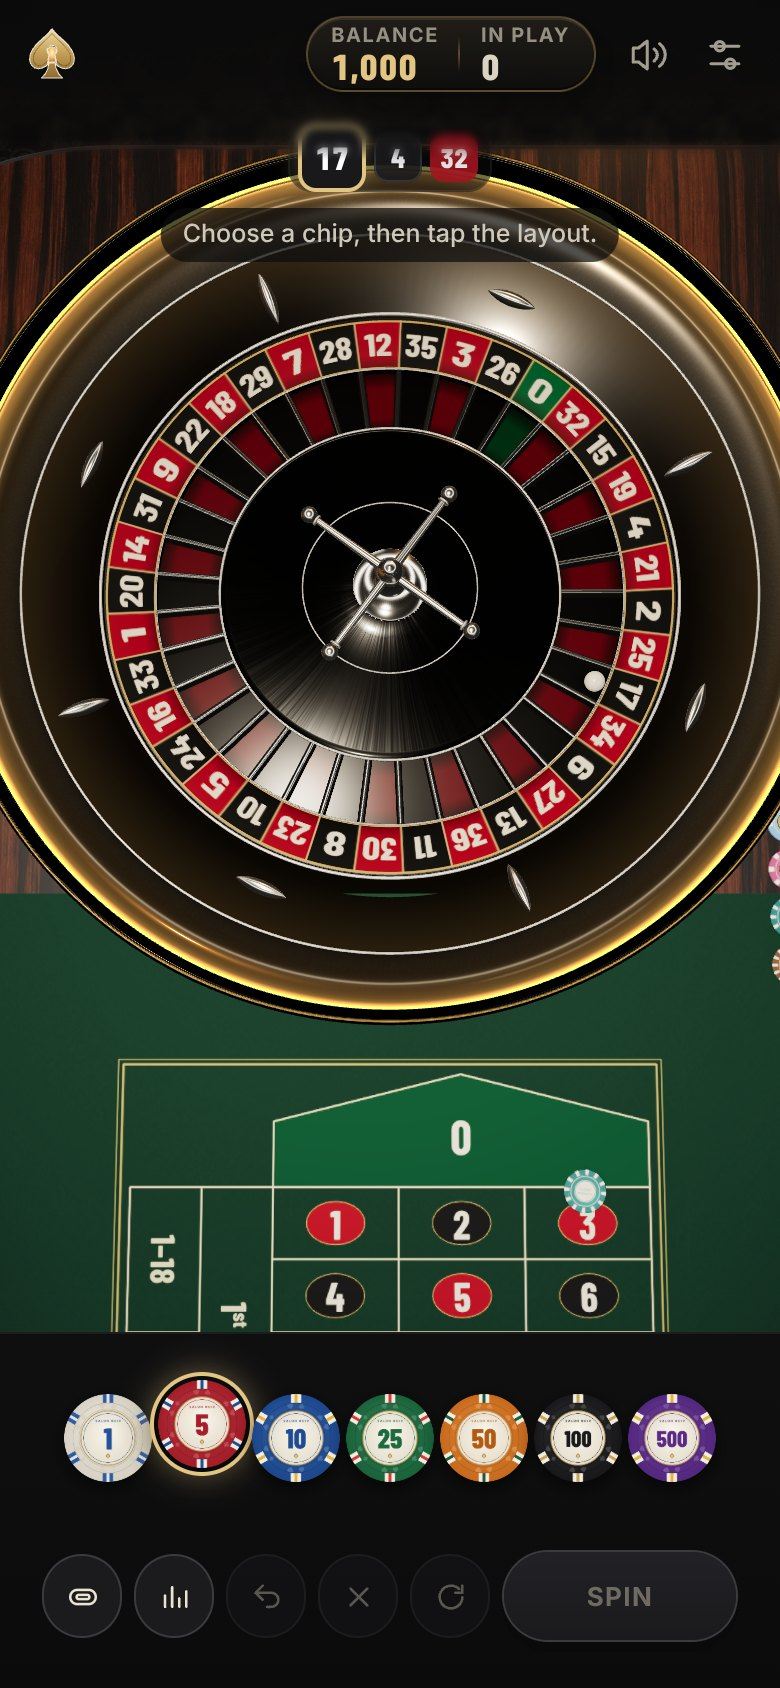
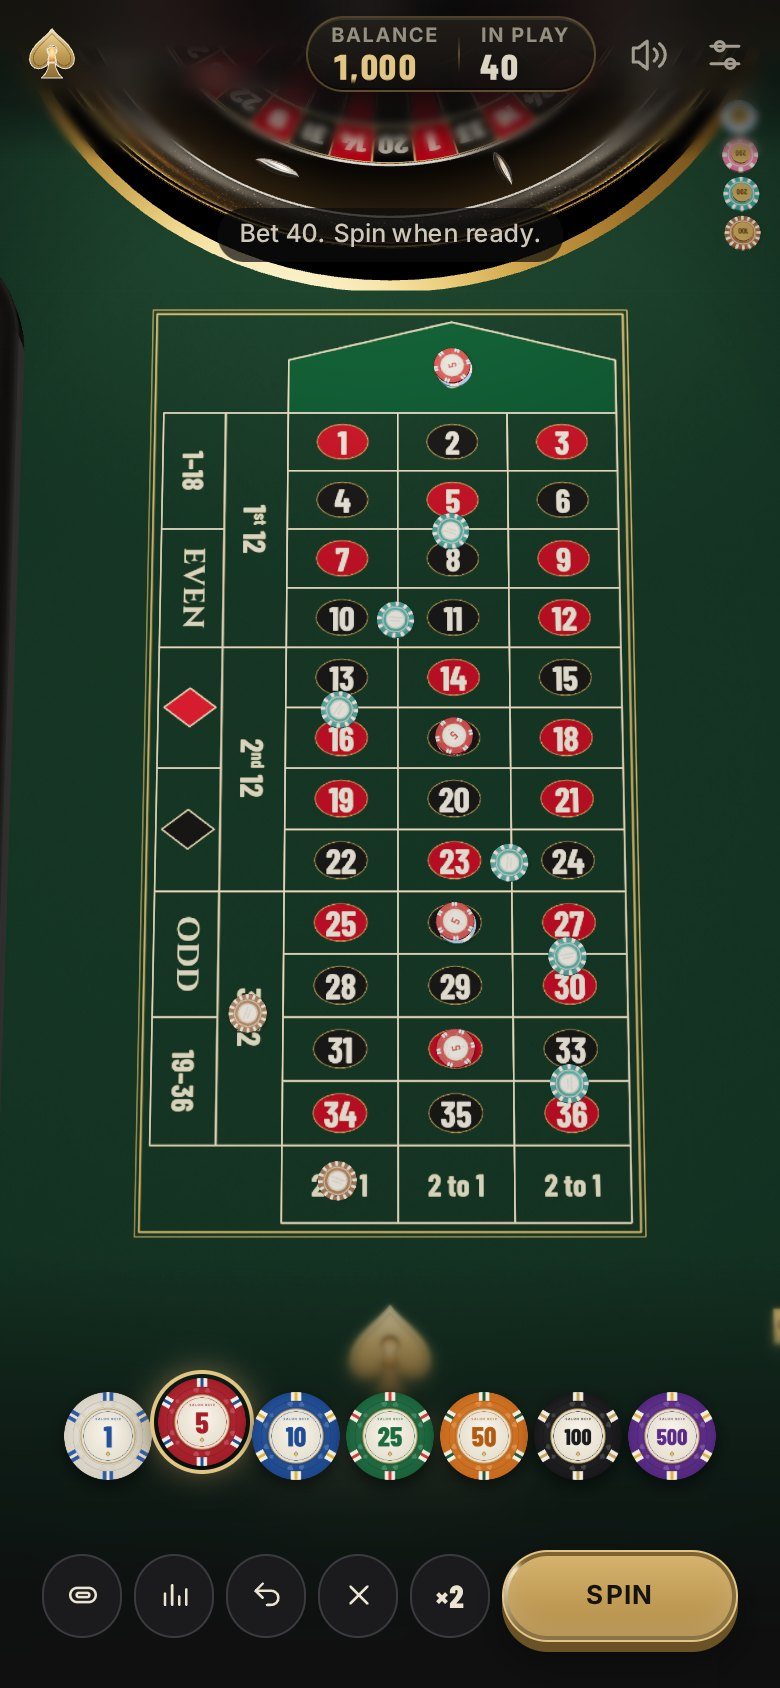
Roulette: cloth round the wheel, the armrest ends rounded, a blurred dock
- One cloth over the whole top inside a rim of wood, cut round the wheel
  and the chip tray, the printed layout lying on it. A brass sheet under
  it shows as a fine rule at its edge and a ring round the wheel. The top
  is 10 cm longer at the head and 8 cm deeper on the far side, so the
  cloth goes all the way round the well.
- The armrest ends at the far corner with a rounded end, like its near
  end, in place of the cut-off stub up the croupier's side that showed
  as a black block.
- Where the dock runs along the foot of the screen, the table goes on
  under it behind a progressive blur (five layers, each twice the blur
  of the last, faded in a step further down, with a shade for the
  controls' contrast) instead of a solid bar. The scene frames the table
  clear of the blur (frame takes a bottom inset, as it takes the bar's at
  the top), so no spot is softened. The battery saver and a phone's
  side column keep a plain dock.
- README pictures of the roulette table retaken.

Claude-Session: https://claude.ai/code/session_01LZAjciFf9xTUB7bzDLkKS6

diff --git a/src/app.css b/src/app.css
@@ -750,10 +750,12 @@ body:not([data-room="roulette"]) .rstage, body:not([data-room="roulette"]) .rdoc
 body[data-room="roulette"] .shoe-meter { display: none; }
 body.in-lobby .rdock, body.in-lobby .r-overlay, body.in-lobby .r-hint, body.flying .rdock, body.flying .r-overlay, body.flying .r-hint { opacity: 0; pointer-events: none; }
 .rdock, .r-overlay, .r-hint { transition: opacity .5s var(--ease); }
-.rcanvas { position: absolute; inset: 0; width: 100%; height: 100%; display: block; touch-action: none; }
+/* the picture runs on under a dock along its foot (--under: the dock's height, set as the room frames itself) */
+.rstage { overflow: visible; }
+.rcanvas { position: absolute; left: 0; top: 0; width: 100%; height: calc(100% + var(--under, 0px)); display: block; touch-action: none; }
 .r-overlay { position: absolute; inset: 0; pointer-events: none; }
 /* the room falls away into the dark round the table, as under its pendants */
-.r-vignette { position: absolute; inset: 0; pointer-events: none; background: radial-gradient(120% 95% at 50% 58%, transparent 52%, rgba(5, 4, 3, .38) 82%, rgba(5, 4, 3, .62) 100%); }
+.r-vignette { position: absolute; inset: 0 0 calc(-1 * var(--under, 0px)); pointer-events: none; background: radial-gradient(120% 95% at 50% 58%, transparent 52%, rgba(5, 4, 3, .38) 82%, rgba(5, 4, 3, .62) 100%); }
 .r-fade { position: absolute; inset: 0; background: #050505; opacity: 0; pointer-events: none; transition: opacity .2s ease; z-index: 2; }
 .r-fade.on { opacity: 1; }
 .r-hint, body[data-table] .r-hint { top: auto; bottom: 12px; }   /* beat the blackjack tables' hint placement, which may still be on the body */
@@ -877,6 +879,24 @@ body[data-rmode="spin"] .r-hint { top: auto; bottom: 6px; padding: 4px 11px; fon
 
 /* the dock */
 .rdock { display: flex; align-items: center; justify-content: center; gap: 14px 18px; flex-wrap: wrap; }
+/* A progressive blur in place of the solid bar: the table goes on under the controls, softening by degrees toward the
+   foot (each layer twice the blur of the one before, faded in a step further down), with a shade over it so the
+   controls keep their contrast. Not in the side column of a phone on its side, nor on the battery saver. */
+.r-blur { display: none; }
+@media not ((orientation: landscape) and (max-height: 520px)) {
+  .rdock { background: none; border-top: 0; }
+  .r-blur { display: block; position: absolute; left: 0; right: 0; top: -40px; bottom: 0; z-index: -1; pointer-events: none;
+    background: linear-gradient(rgba(11, 11, 12, 0), rgba(11, 11, 12, .42) 34%, rgba(11, 11, 12, .72) 70%, rgba(11, 11, 12, .86)); }
+  .r-blur i { position: absolute; inset: 0; --m: linear-gradient(transparent var(--a), #000 var(--c));
+    -webkit-backdrop-filter: blur(var(--b)); backdrop-filter: blur(var(--b)); -webkit-mask-image: var(--m); mask-image: var(--m); }
+  .r-blur i:nth-child(1) { --b: 1px; --a: 0%; --c: 18%; }
+  .r-blur i:nth-child(2) { --b: 2.5px; --a: 9%; --c: 30%; }
+  .r-blur i:nth-child(3) { --b: 5px; --a: 20%; --c: 44%; }
+  .r-blur i:nth-child(4) { --b: 10px; --a: 32%; --c: 60%; }
+  .r-blur i:nth-child(5) { --b: 18px; --a: 46%; --c: 78%; }
+  .rdock[data-q="saver"] .r-blur i { display: none; }
+  .rdock[data-q="saver"] .r-blur { background: linear-gradient(rgba(11, 11, 12, 0), rgba(11, 11, 12, .8) 40%, #0b0b0c 75%); }
+}
 .rdock .bet-actions { grid-template-areas: 'u c s d'; }
 #rUndo { grid-area: u; } #rClear { grid-area: c; } #rRebet, #rX2 { grid-area: s; justify-self: stretch; justify-content: center; } #rSpin { grid-area: d; }
 .r-tools { display: flex; gap: 8px; }

diff --git a/PROJECT.md b/PROJECT.md
@@ -21,7 +21,7 @@ House rules worth knowing (all in the rules cards in Settings, and checked by th
 - **Classic** (the base of all three): 8 decks, dealer stands on soft 17, hole card with a peek, blackjack pays 3:2, one split (aces take one card), double after split, insurance 2:1 and **even money** offered on your blackjack against an ace, ten-card Charlie. Lucky Lucky pays **30:1 on an unsuited 6-7-8**.
 - **Free Bet:** free doubles on hard 9-11 and free splits on every pair but tens, **resplitting up to four hands**; tens split for your own stake; a dealer 22 pushes, and Push 22 takes the Dealer Pairs spot (11:1).
 - **Lightning:** a fee equal to the main bet; multipliers struck onto the final totals pay on your next win. Its return figures (engine.mjs, modes.mjs) are the owner's call: leave them as they are. The board is struck as a show (`strikeBoard` in `blackjack/lightning-ui.mjs`): the room goes dark and the air charges (a hum made in `sound.mjs`, `buzz`; static over the brass lip, the shoe and the chip rack; the cells crackling), the strikes come quicker and quicker, smallest first, and once the last one's light has died the biggest waits a held breath in a deeper dark before it lands with the full peal. Each bolt restrikes its own way (one to three times; the lamp, the mirrors and the screen's flash follow it stroke for stroke) and leaves a faint afterimage. Soft keeps every strike to one swell, 360 ms apart; Reduce motion runs it at once. Outside the salon a storm (`blackjack/storm.mjs`) comes as near as the multiplier riding on your bet: rain on the windows, flashes through them (the mirrors and window glass light up through the wall's light mask, the panes fall across the felt, a near one browns the lamps out) and thunder after them, later and more muffled the farther it is. It holds off while the board is struck and comes overhead when a multiplier pays. It only reads the table. A multiplier paying is the biggest moment (`payoff`): its light gathers on your badge, a gold bolt drives into it and the picture holds for a breath (the hit-stop: `hold` in `scene/stage.mjs` skips frames), then the shake, the thunder and the haptics come as big as the multiplier, the dealer calls "Lightning strikes!", the multiplier slams onto the screen and the bonus counts up under it with rising ticks (`blip` in `sound.mjs`) while it is paid onto your stack in crackling chips; the balance takes it as the count lands. Flashing effects tames its flash too; Reduce motion skips the gathering and the hold.
-- **European roulette:** single zero with **la partage** (half of each even-money bet back on zero), the racetrack with neighbours and the call bets (printed on the cloth in a landscape view, where a tap on it bets as the sheet does, and the croupier places the chips of a call bet; on an upright phone the Racetrack sheet is the track), limits per kind of bet (posted on a brass plaque at the far corner of the cloth, from the rules' own figures). The other players sit around the table's edges, each with colour chips of their own (a marker by the wheel shows what one is worth: 5, 10 or 25, chosen each visit). Every player's chips on a spot make one column; the croupier rakes the losing chips toward him with a real rake (a heap at the corner under Reduce motion), wins are cut in stacks of 20 and cuts of 5 (yours in value chips), la partage halves the stake where it stands, and each player's chips are pushed to their own seat. Your straight-up win takes the camera low over the cloth to watch it cut, and a slow-motion replay rides behind the ball (Settings: Replays, your straight-up wins, every spin, or off). The wheel is a live-studio wheel (`roulette/wheel3d.mjs`): piano-black bowl, a polished black stone track under a gold ring light, chrome canoes, deep pockets parted by solid chrome frets, a sunburst cone and a chrome French-cross turret; its depth is painted occlusion, so neither it nor the ball casts a shadow map (the ball has a contact shadow). You stand at the long side, eyes about a metre over the cloth, looking down at about 50° through a natural lens, the whole wheel at your left (`computeShots` in `rscene.mjs`); the table stands on a lacquered apron with lines of warm light, a pedestal and a plinth glowing on the carpet, and a low results marquee stands behind the wheel beside the chip tray. The croupier spins with the bets still open: from your seat you see him stop the wheelhead, spin it the other way and launch the ball, and you (and the others) can add chips, not take any back, until he calls "No more bets" about two laps before the drop. Bets close and settle the moment he calls it, the number drawn then (a page closed before the call has staked nothing), and the camera glides down to the wheel (to the pocket at the drop, back to your seat for the payout: no cut to black). The spin's ending is one of the ways it was tried ahead, a try a frame while the ball ran (`plan`, `warm` and `aim` in `physics.mjs`): the ball's last rounds a few per cent quicker or slower, and the scatter of canoes and frets from the drop. Most rest in the drawn number's pocket as they are; the rest are a pocket off, made up by the wheelhead running a few per cent quicker or slower between the call and the ball landing on it, a smooth swell that starts and ends at its own speed. The run before the call doesn't depend on the number, and nothing is ever pushed. From the call the numbers your bets cover are lit on the wheel, the room's light dims toward the wheel and the music stays down through the rattle; the ring light flashes the number's colour as it is called (Flashing effects: Soft keeps it gentle, Off removes it). From the call the ball's flight only shows the result, and the screen gives nothing away early: once the ball is at rest James says "The winning number is…" and the number, its bubble showing as he starts to say it, and the balance and "This visit" hold until the winnings land on the cloth. The dolly stands on the number's column and comes up as the chips go home, before "Place your bets"; the number keeps a soft glow until your next chip.
+- **European roulette:** single zero with **la partage** (half of each even-money bet back on zero), the racetrack with neighbours and the call bets (printed on the cloth in a landscape view, where a tap on it bets as the sheet does, and the croupier places the chips of a call bet; on an upright phone the Racetrack sheet is the track), limits per kind of bet (posted on a brass plaque at the far corner of the cloth, from the rules' own figures). The other players sit around the table's edges, each with colour chips of their own (a marker by the wheel shows what one is worth: 5, 10 or 25, chosen each visit). Every player's chips on a spot make one column; the croupier rakes the losing chips toward him with a real rake (a heap at the corner under Reduce motion), wins are cut in stacks of 20 and cuts of 5 (yours in value chips), la partage halves the stake where it stands, and each player's chips are pushed to their own seat. Your straight-up win takes the camera low over the cloth to watch it cut, and a slow-motion replay rides behind the ball (Settings: Replays, your straight-up wins, every spin, or off). The wheel is a live-studio wheel (`roulette/wheel3d.mjs`): piano-black bowl, a polished black stone track under a gold ring light, chrome canoes, deep pockets parted by solid chrome frets, a sunburst cone and a chrome French-cross turret; its depth is painted occlusion, so neither it nor the ball casts a shadow map (the ball has a contact shadow). You stand at the long side, eyes about a metre over the cloth, looking down at about 50° through a natural lens, the whole wheel at your left (`computeShots` in `rscene.mjs`); one cloth covers the top inside a rim of Macassar wood, cut round the wheel (a brass ring between) and the chip tray, the printed layout lying on it; a padded leather armrest runs along the players' side and round the foot, rounded at both ends (the croupier's side is his); the table stands on a lacquered apron with lines of warm light, a pedestal and a plinth glowing on the carpet, and a low results marquee stands behind the wheel beside the chip tray. Where the dock runs along the foot of the screen the picture goes on under it behind a progressive blur (`.r-blur` in `app.css`; the battery saver and a phone's side column go without), the table framed clear of it (`frame(w, h, top, bottom)` in `rscene.mjs`). The croupier spins with the bets still open: from your seat you see him stop the wheelhead, spin it the other way and launch the ball, and you (and the others) can add chips, not take any back, until he calls "No more bets" about two laps before the drop. Bets close and settle the moment he calls it, the number drawn then (a page closed before the call has staked nothing), and the camera glides down to the wheel (to the pocket at the drop, back to your seat for the payout: no cut to black). The spin's ending is one of the ways it was tried ahead, a try a frame while the ball ran (`plan`, `warm` and `aim` in `physics.mjs`): the ball's last rounds a few per cent quicker or slower, and the scatter of canoes and frets from the drop. Most rest in the drawn number's pocket as they are; the rest are a pocket off, made up by the wheelhead running a few per cent quicker or slower between the call and the ball landing on it, a smooth swell that starts and ends at its own speed. The run before the call doesn't depend on the number, and nothing is ever pushed. From the call the numbers your bets cover are lit on the wheel, the room's light dims toward the wheel and the music stays down through the rattle; the ring light flashes the number's colour as it is called (Flashing effects: Soft keeps it gentle, Off removes it). From the call the ball's flight only shows the result, and the screen gives nothing away early: once the ball is at rest James says "The winning number is…" and the number, its bubble showing as he starts to say it, and the balance and "This visit" hold until the winnings land on the cloth. The dolly stands on the number's column and comes up as the chips go home, before "Place your bets"; the number keeps a soft glow until your next chip.
 - **Nothing is lost by leaving.** Each blackjack hand is saved move by move; a hand a closed or reloaded page left unfinished is **played out on the next visit** (you stand, insurance declined) and paid, with a note over the lobby. The saved hand never holds the order of the shoe or the dealer's hole card (`record` in `engine.mjs`), so the play-out deals them from a fresh shuffle of the unseen cards. A second window can't pay it twice (see `inFlight` in `core/wallet.mjs`), and the balance isn't reset while another window has a hand riding.
 
 History: the code folder was called `v28` (its 28th version) until it was renamed `src`. The project began as "Velvet Blackjack", was renamed "Spader", and is now "Salon Noir". Old names still show up in comments and in storage keys (every setting is kept under `spader.*`, and the balance falls back to an old `spader.balance`), on purpose.
